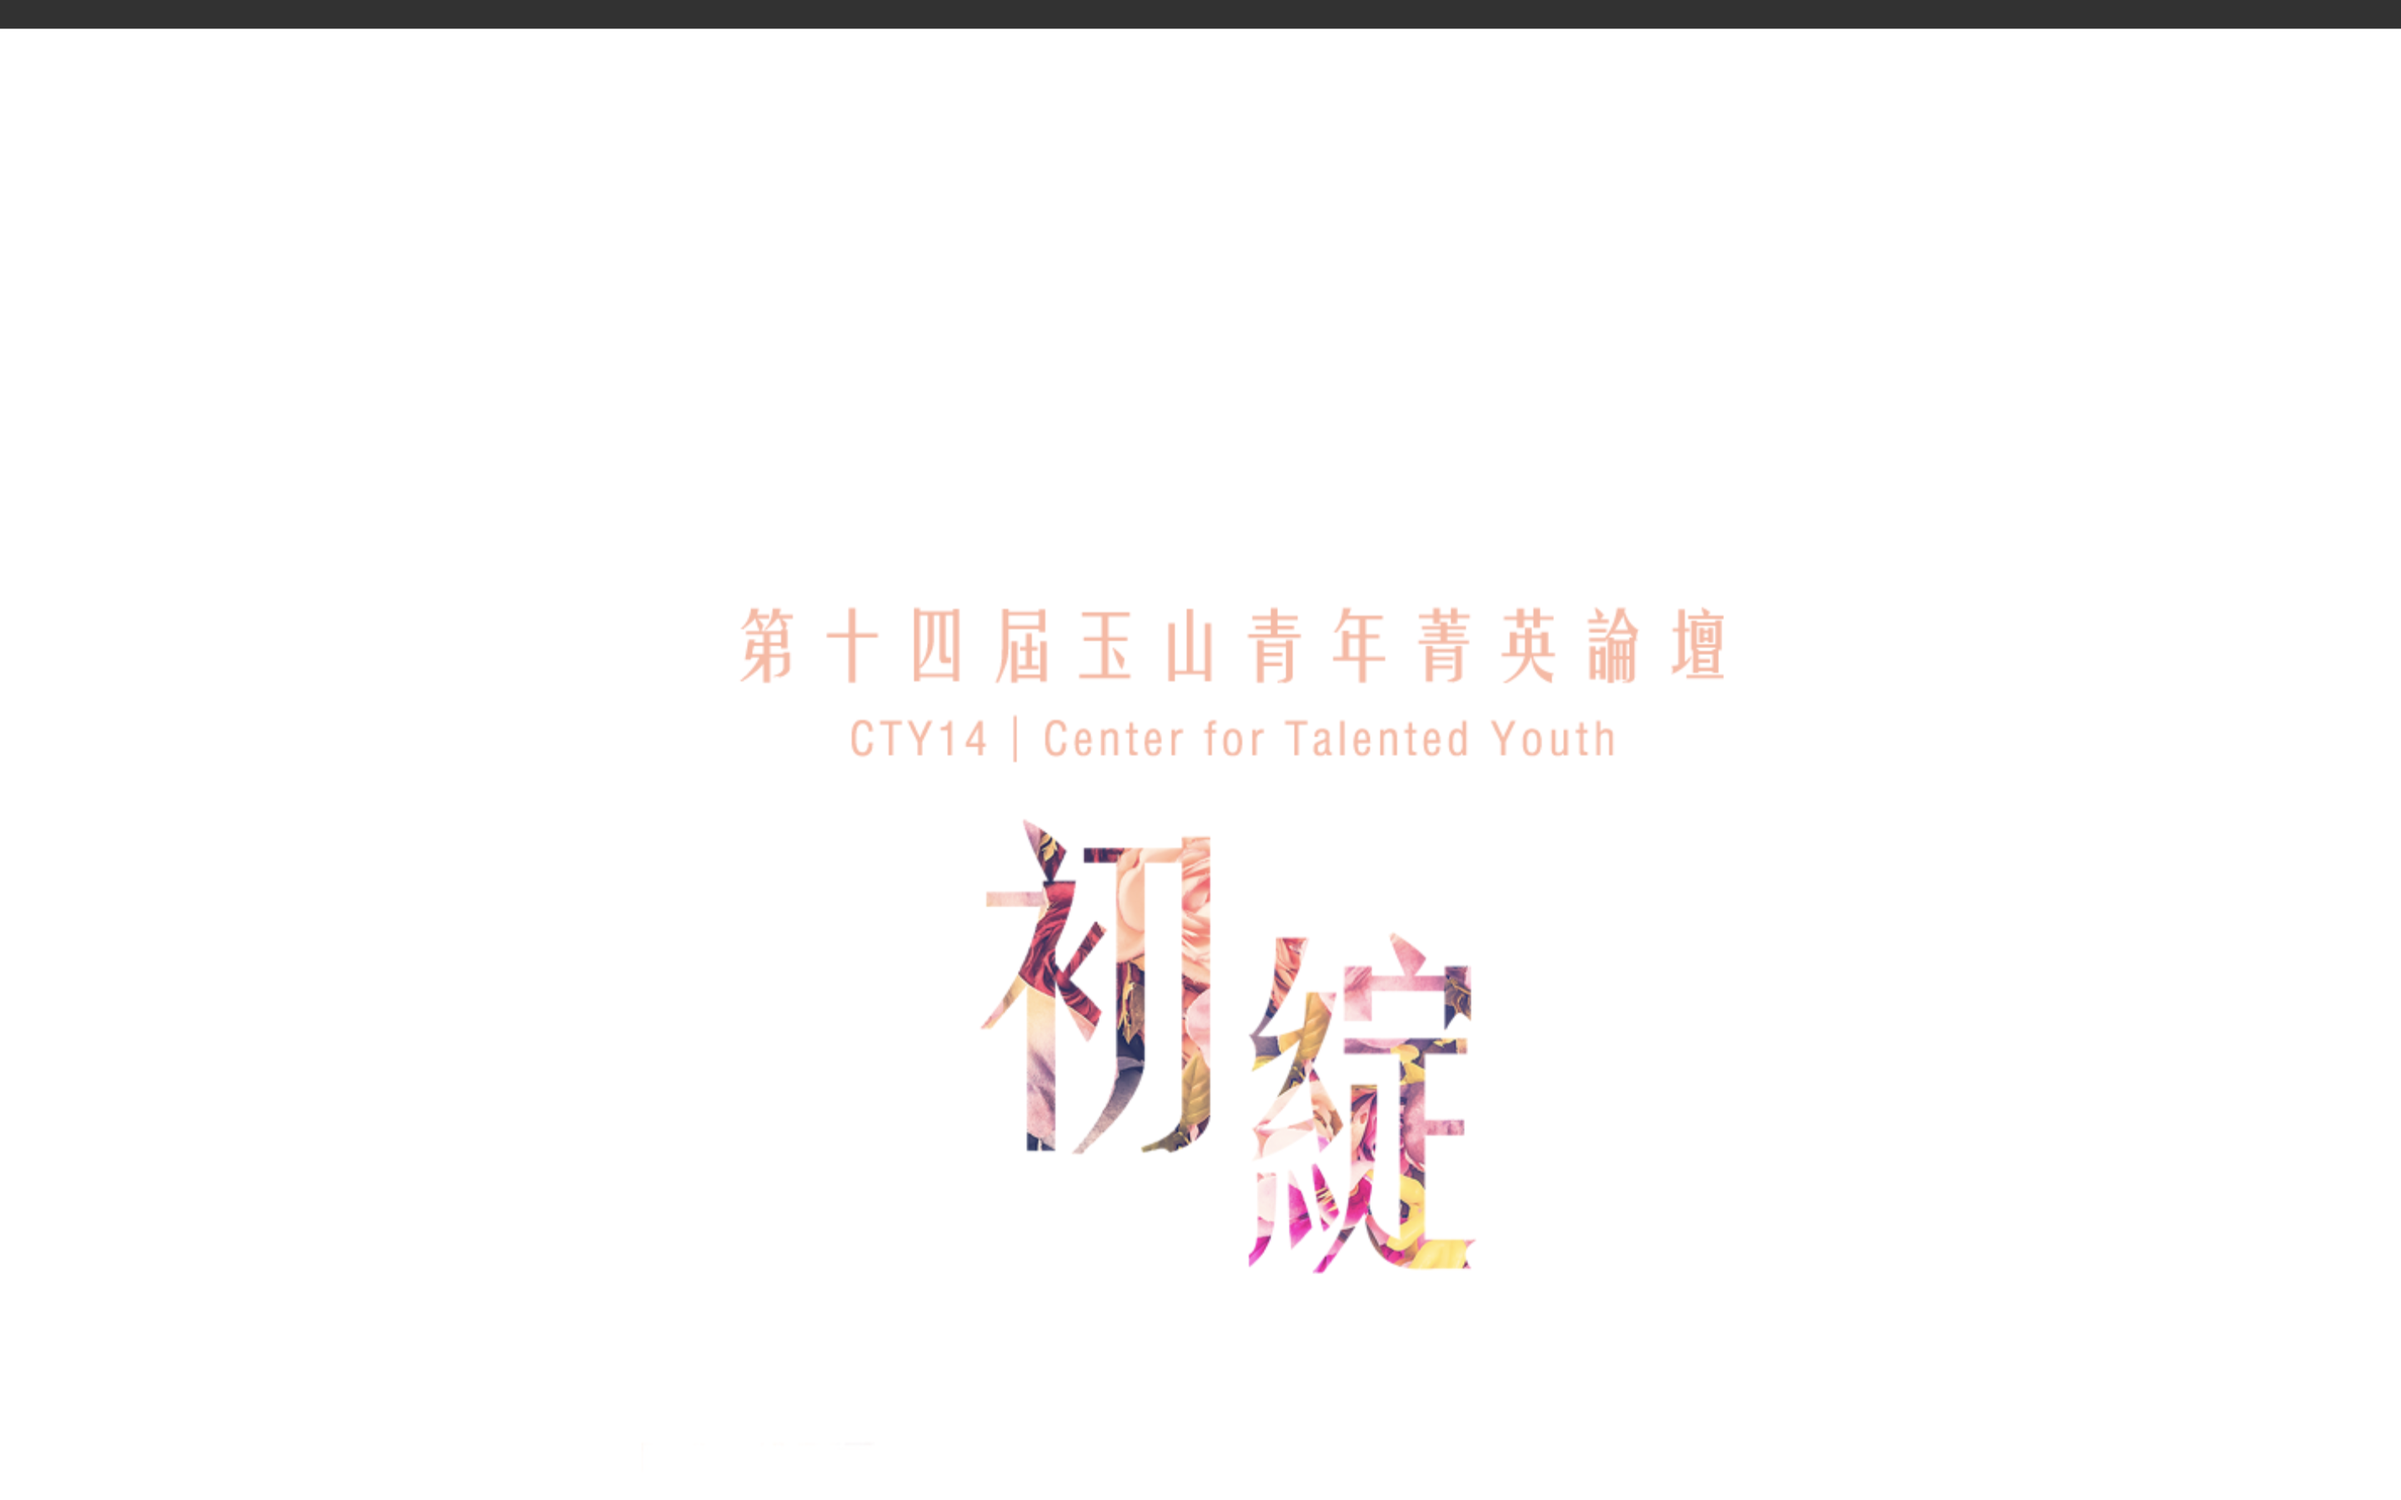
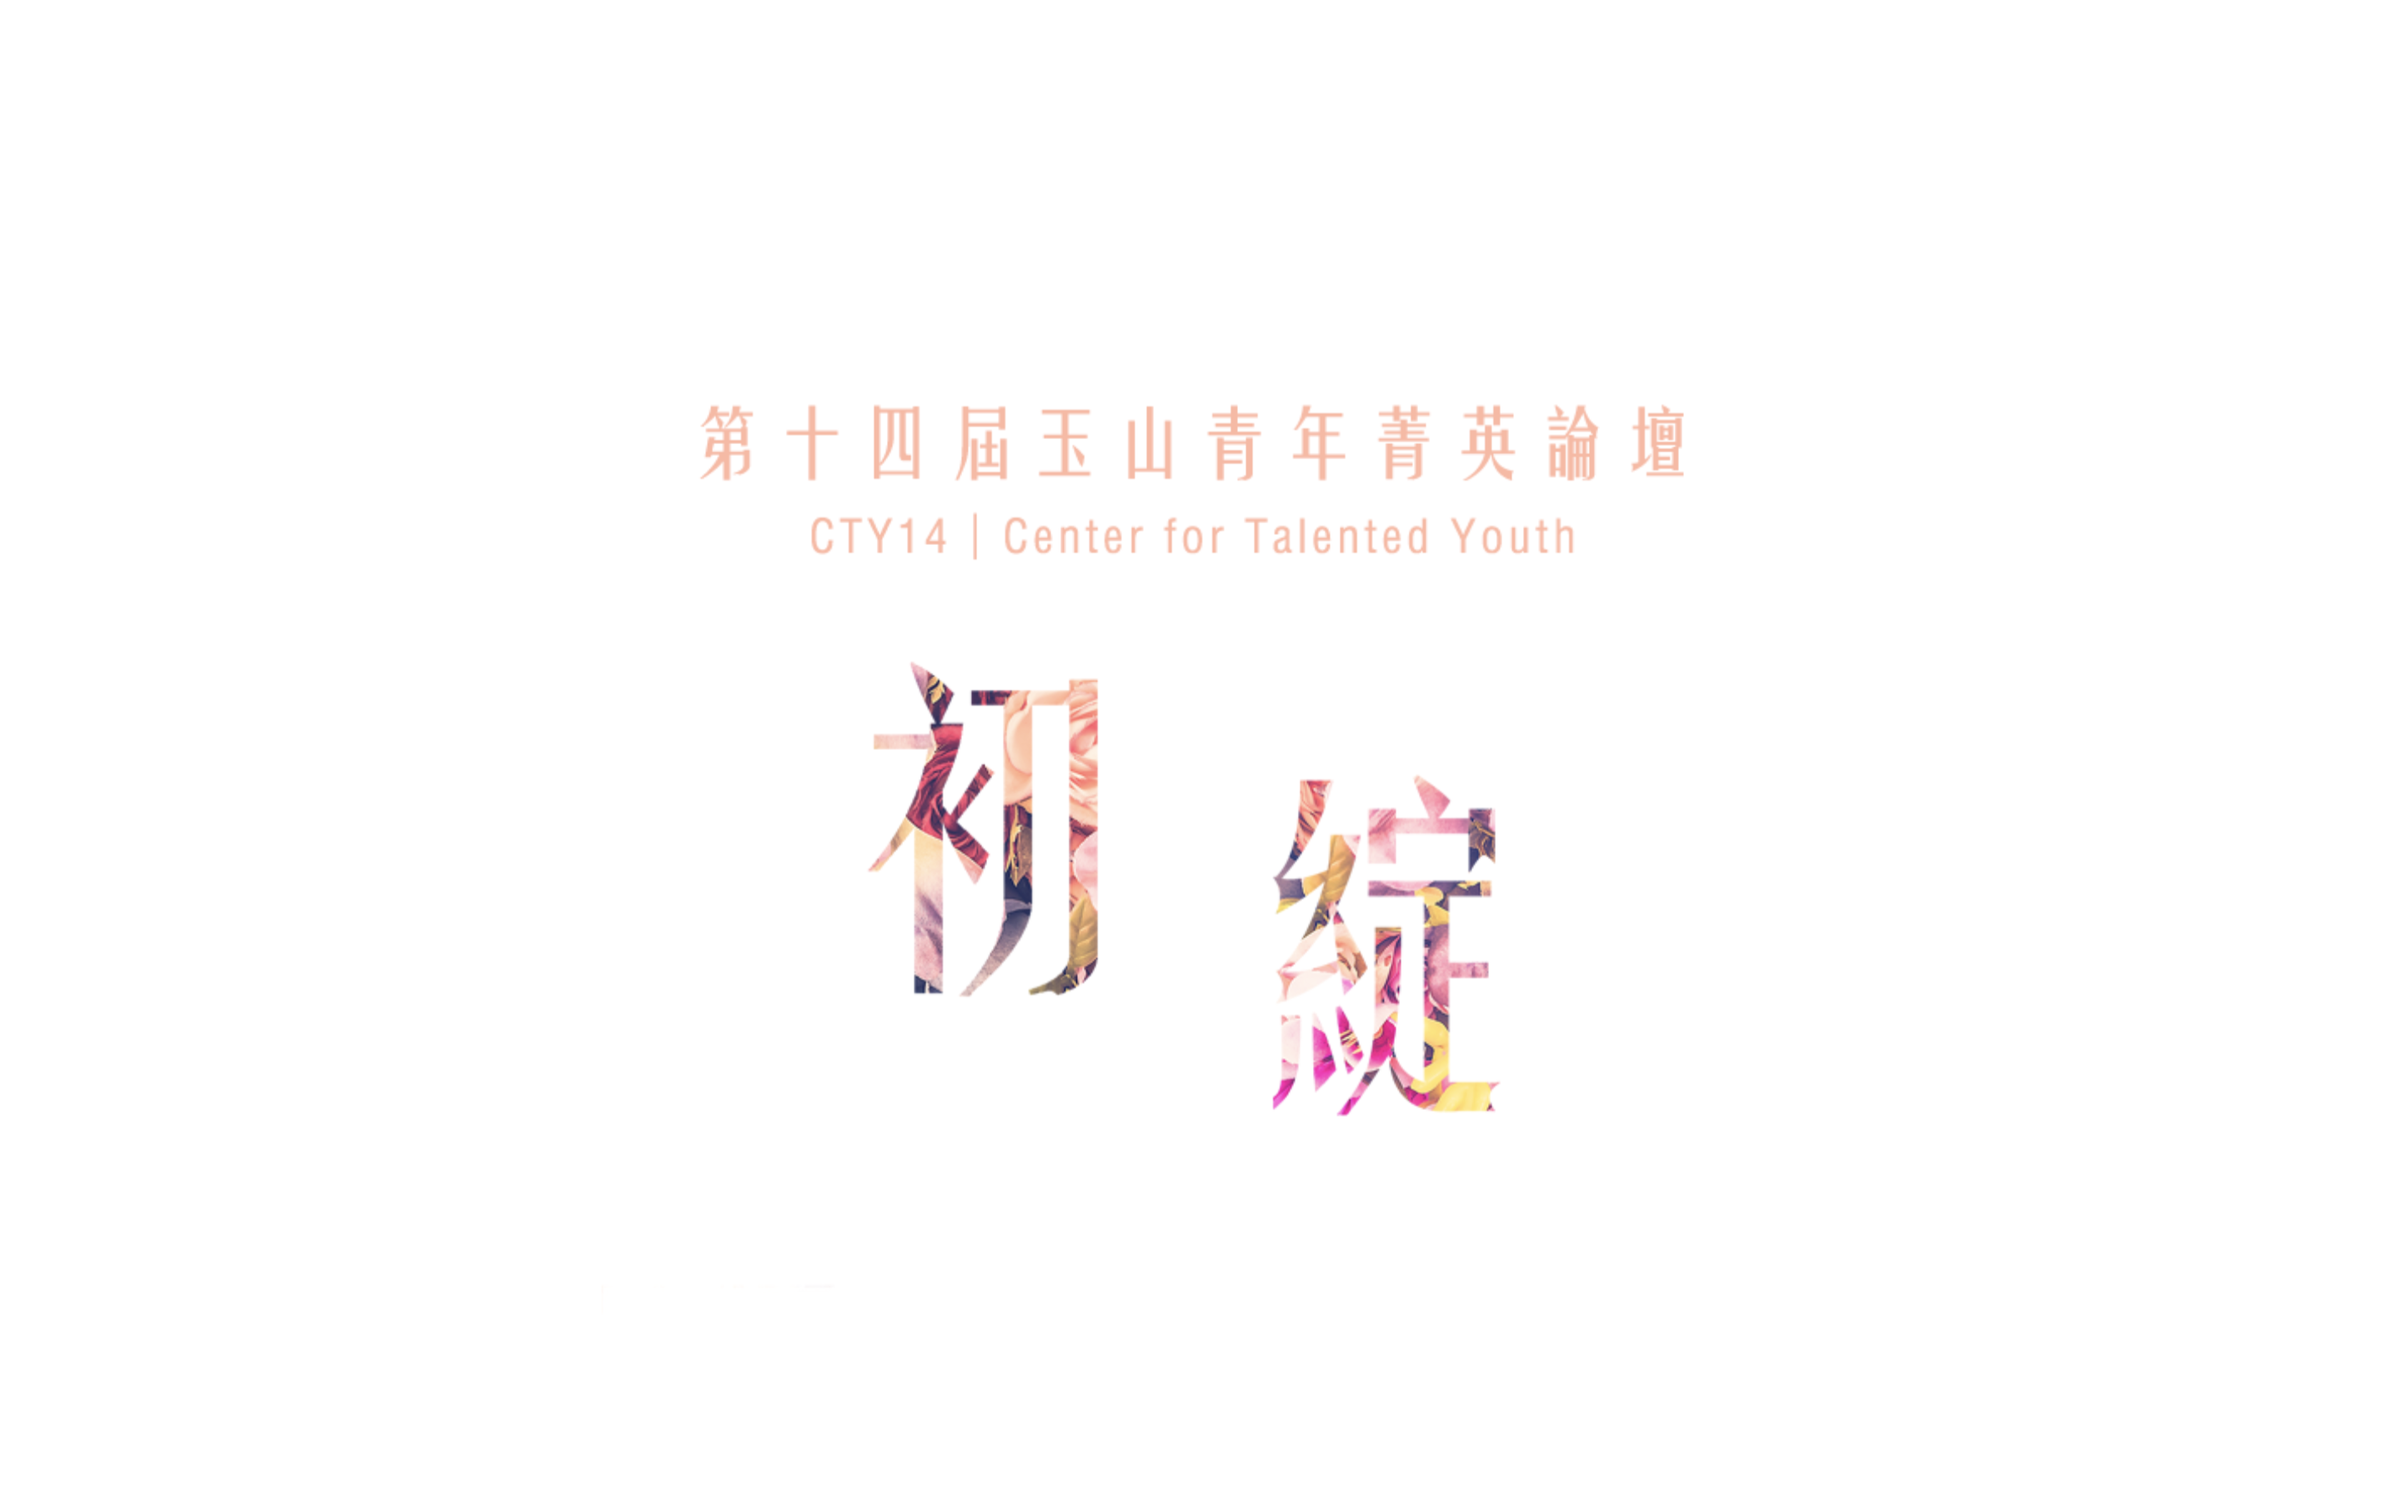
css adjust

Changed region(s): [[0.3125, 0.4044, 0.7188, 0.8711], [0.0, 0.0, 1.0, 0.0311], [0.2812, 0.2489, 0.7188, 0.3733]]

diff --git a/index.html b/index.html
@@ -151,7 +151,7 @@
         </div>
       </div>
       <div data-aos="zoom-in">
-        <img class="img-fluid d-block mx-auto" src="img/about/profile2.png" alt="" style="padding: 50px;" >
+        <img class="img-fluid d-block mx-auto" src="img/agenda.jpg" alt="" style="padding: 50px;" >
       </div>
       
     
@@ -181,7 +181,7 @@
         <div class="col-md-6 col-sm-12" data-aos="fade-right" data-aos-delay="0">
           <div class="portfolio-caption">
             <img class="img-fluid d-block mx-auto" src="img/about/profile2.png" alt="" style="padding-right: 50px;" >
-
+            <img class="img-fluid logo1" src="img/organizer/logo.png">
             <h2 class="timeline-heading">台灣玉山科技協會</h4>
             <p>1990年，「玉山科技協會」於美國聖荷西成立，以台灣第一高峰「玉山」為名，象徵華人企業家源遠流長及追求卓越的精神。2001年，在創會理事長劉兆玄先生號召下，「台灣玉山科技協會」匯集台灣頂尖企業與學術菁英，正式成立，以成為實踐全球華人知識經濟共同體之平台為宗旨。 為培育下一代領導菁英，台灣玉山科技協會成立分支機構青年玉山及小玉山，讓年輕一代得以從創新、多元的角度發揮自我價值，擴大學習領域。</p>
           </div>
@@ -193,7 +193,7 @@
         <div class="col-md-6 col-sm-12" data-aos="fade-left" data-aos-delay="0">
           <div class="portfolio-caption">
             <img class="img-fluid d-block mx-auto" src="img/about/profile2.png" alt="" style="padding-right: 50px;" >
-
+            <img class="img-fluid logo1" src="img/organizer/ymj.png">
             <h2 class="timeline-heading">小玉山</h4>
             <p>小玉山分支機構由台灣玉 山科技協會實習生組成，於2 010年9月成立，並正式命名 為「台灣小玉山分支機構」。小玉山實習計畫需參與過玉山青年菁英論壇(CTY)，提出申請、繳交簡歷、通過面試後，方可成為小玉山實習生。實習生透過參與各類台灣玉山科技協會大型活動與舉辦論壇，拓展產業視野並認識產、官、學等優秀人才，幫助自我未來職涯發展；此外，透過各國分會交流拓展國際觀，成為傑出的領導者並與世界接軌。</p>
           </div>
@@ -807,7 +807,7 @@
                 <i class="fas fa-plus fa-3x"></i>
               </div>
             </div>
-            <img class="img-fluid" src="img/portfolio/01-thumbnail.jpg" alt="">
+            <img class="img-fluid" src="img/internship/1.jpg" alt="">
           </a>
           <div class="portfolio-caption">
             <h4>提攜人計畫</h4>
@@ -820,7 +820,7 @@
                 <i class="fas fa-plus fa-3x"></i>
               </div>
             </div>
-            <img class="img-fluid" src="img/portfolio/02-thumbnail.jpg" alt="">
+            <img class="img-fluid" src="img/internship/2.JPG" alt="">
           </a>
           <div class="portfolio-caption">
             <h4>玉山跨視際青年論壇（FVY）</h4>
@@ -833,7 +833,7 @@
                 <i class="fas fa-plus fa-3x"></i>
               </div>
             </div>
-            <img class="img-fluid" src="img/portfolio/03-thumbnail.jpg" alt="">
+            <img class="img-fluid" src="img/internship/3.JPG" alt="">
           </a>
           <div class="portfolio-caption">
             <h4>玉山青年菁英論壇（CTY）</h4>
@@ -846,7 +846,7 @@
                 <i class="fas fa-plus fa-3x"></i>
               </div>
             </div>
-            <img class="img-fluid" src="img/portfolio/04-thumbnail.jpg" alt="">
+            <img class="img-fluid" src="img/internship/4.jpg" alt="">
           </a>
           <div class="portfolio-caption">
             <h4>海外參訪及交流活動</h4>
@@ -900,7 +900,7 @@
               <div class="modal-body">
                 <!-- Project Details Go Here -->
                 <h2 class="text-uppercase">提攜人計畫</h2>
-                <img class="img-fluid d-block mx-auto" src="img/portfolio/01-full.jpg" alt="">
+                <img class="img-fluid d-block mx-auto" src="img/internship/1.jpg" alt="">
                 <p>提攜人計畫為小玉山實習生向具有豐富經驗的企業家學習，為期一年的計畫希望藉由雙向溝通交流能使實習生提升就業準備能力、開拓國際視野並學習企業家宏觀的思維。提攜人計畫援引提攜人豐厚的實務經驗與資源，對實習生進行諮詢與輔導，諸如：生涯規劃、企業實習、求職與就業準備、多元能力發展、舉行職涯相關演講、經驗分享、座談、餐敘、企業參訪、擔任一日助理等，協助實習生提早適應工作環境。以「每月至少一次」的見面形式進行，讓提攜人成為實習生未來路途上的一盞明燈，並能與提攜人培養終身的關係，實踐一日為師、終身為父的精神。由台灣玉山科技協會之會員擔任小玉山實習生之業界導師，實習生可透過與成就傑出的導師近身學習之機會，養成廣大宏遠的視野與切身了解各產業概況，獲取最新一手的產業資訊與培養未來就業能力。四大會計事務所、工研院、投資銀行、創投公司、法律事務所、資策會、顧問公司等來自各大領域的領導者都有機會成為你的mentor！</p>
                 <button class="btn btn-primary" data-dismiss="modal" type="button">
                   <i class="fas fa-times"></i>
@@ -928,7 +928,7 @@
               <div class="modal-body">
                 <!-- Project Details Go Here -->
                 <h2 class="text-uppercase">玉山跨視際青年論壇（FVY）</h2>
-                <img class="img-fluid d-block mx-auto" src="img/portfolio/02-full.jpg" alt="">
+                <img class="img-fluid d-block mx-auto" src="img/internship/2.JPG" alt="">
                 <p>玉山跨視際青年論壇（FVY）於每年上學期舉辦論壇，是第一個實習生親手籌辦的大活動！由主題製定、邀請講師至當天實際執行全權交給當屆實習生來進行。藉由座談會及分桌形式來拉近產學間的鴻溝。</p>
                 <button class="btn btn-primary" data-dismiss="modal" type="button">
                   <i class="fas fa-times"></i>
@@ -956,7 +956,7 @@
               <div class="modal-body">
                 <!-- Project Details Go Here -->
                 <h2 class="text-uppercase">玉山青年菁英論壇（CTY）</h2>
-                <img class="img-fluid d-block mx-auto" src="img/portfolio/03-full.jpg" alt="">
+                <img class="img-fluid d-block mx-auto" src="img/internship/3.JPG" alt="">
                 <p>玉山青年菁英論壇（CTY）是以創新為中心的營隊，由實習生負責籌辦，從主題制定、活動發想、宣傳招生、金錢管理到活動實際執行。最完整的大型專案實作經驗讓你領導力、執行力，趨勢洞察力大大提升。</p>
                 <button class="btn btn-primary" data-dismiss="modal" type="button">
                   <i class="fas fa-times"></i>
@@ -984,7 +984,7 @@
               <div class="modal-body">
                 <!-- Project Details Go Here -->
                 <h2 class="text-uppercase">海外參訪及交流活動</h2>
-                <img class="img-fluid d-block mx-auto" src="img/portfolio/04-full.jpg" alt="">
+                <img class="img-fluid d-block mx-auto" src="img/internship/4.jpg" alt="">
                 <p>海外參訪玉山科技協會在全球共有14個分會，這些據點都有可能成為當年度的海外參訪地點 ！</p>
 
                 <button class="btn btn-primary" data-dismiss="modal" type="button">

diff --git a/css/agency.css b/css/agency.css
@@ -174,13 +174,13 @@ img::-moz-selection {
 header.masthead {
   text-align: center;
   color: white;
-  background-image: url("../img/2.png");
+  background-image: url("../img/3.png");
   background-repeat: no-repeat;
   background-attachment: scroll;
   background-position: center center;
-  background-size: cover;
+  background-size: contain;
   min-height: 100vh;
-  margin:0vw 0vw 0vw 1vw;
+  margin:0vw 0vw 0vw 0vw;
 }
 
 header.masthead .intro-text {
@@ -205,6 +205,10 @@ header.masthead .intro-text .intro-heading {
   margin-bottom: 25px;
   font-family:   'FZYaoti';
 }
+
+
+
+
 
 @media (min-width: 768px) {
   header.masthead .intro-text {
@@ -505,6 +509,11 @@ header.masthead .intro-text .intro-heading {
   
 }
 
+
+
+
+
+
 @media (min-width: 768px) {
   .timeline:before {
     left: 50%;
@@ -715,7 +724,9 @@ vital {
   background: transparent;
   border: 3px solid #C0CEEA;
   margin: 30px auto;
-  margin-left: 30%;
+
+  left:50%;
+  transform: translateX(-59%);
 
   display: block;
   font-size: 35px;
@@ -745,5 +756,12 @@ vital {
   font-size: 1.1rem;
 }
 
+.logo1 {
+display: block;
+margin-top: 18px;
+margin-bottom: 18px;
 
+height: 80px;
+max-width: 85%;
+}
 
